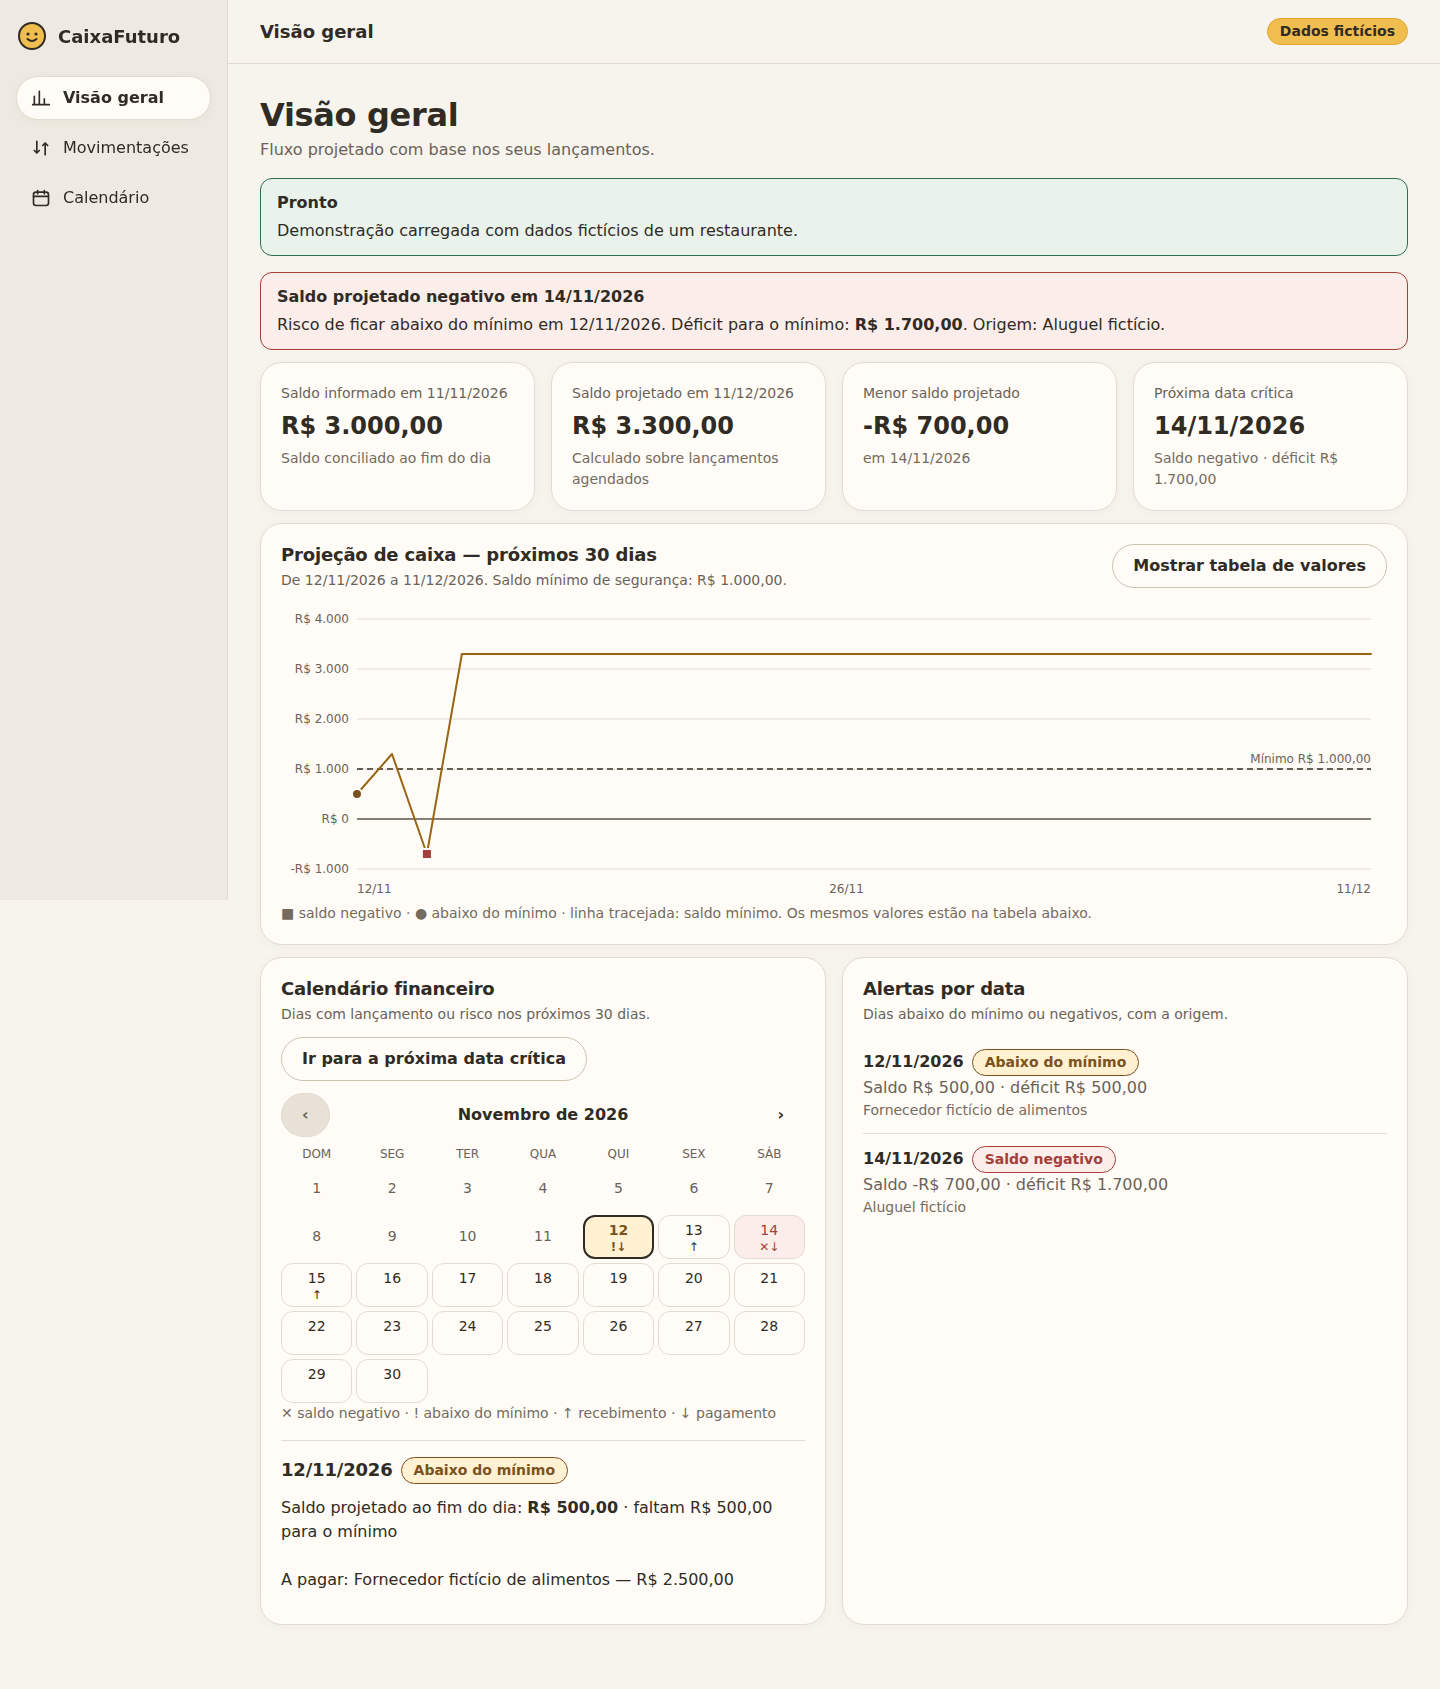
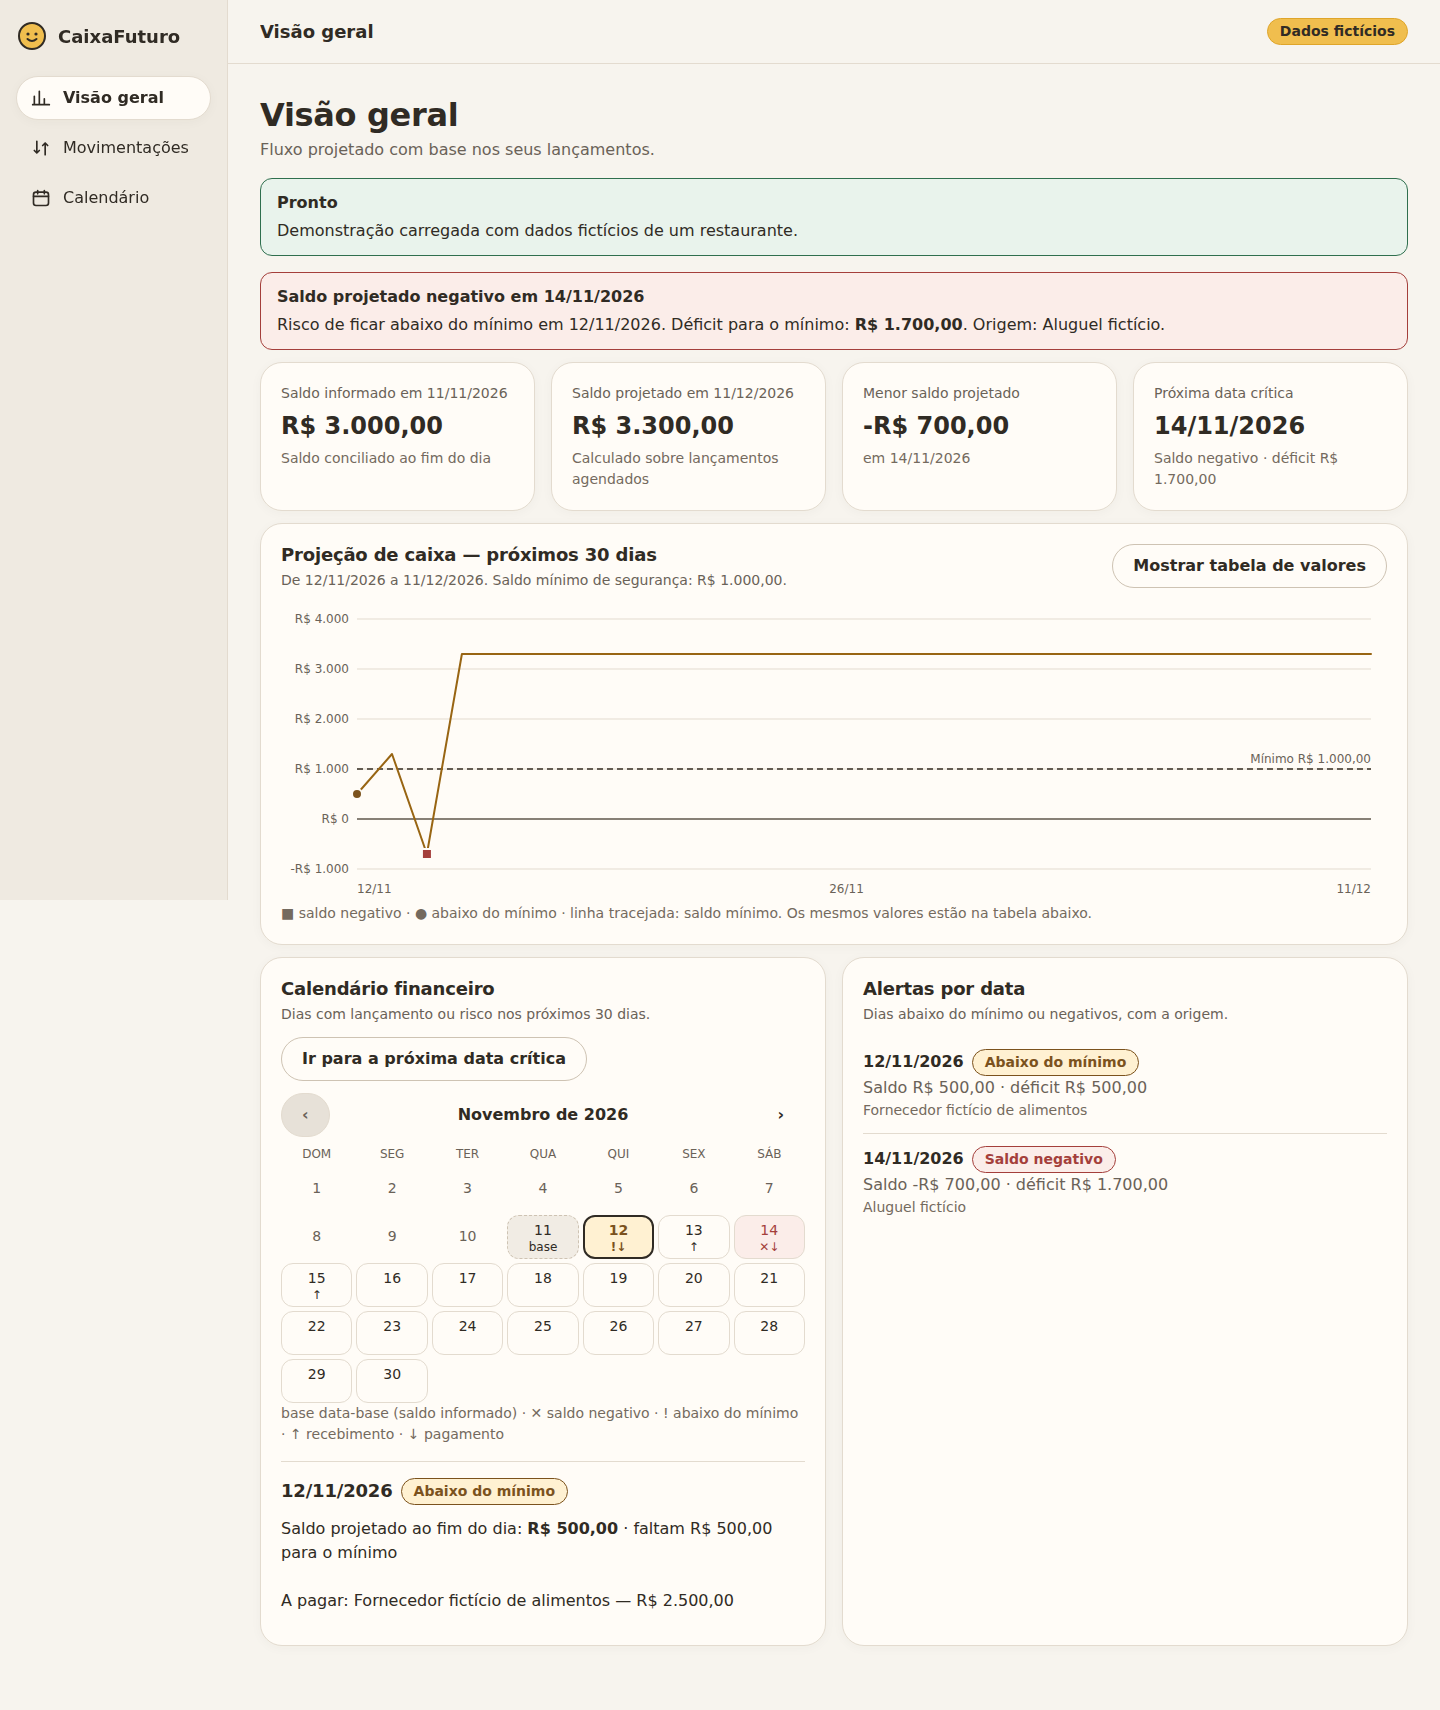
fix(calendario): data-base destacada e clicável com o saldo informado
- O dia da data-base aparece como "base" e mostra "Saldo informado ao fim do dia" (não projetado)
- Dias anteriores continuam inativos; a projeção segue começando no dia seguinte (contrato inalterado)
- Mês da data-base permanece navegável mesmo se a projeção começar no mês seguinte
- Testes: 2 de componente e 1 E2E

diff --git a/src/components/__tests__/dashboard.test.tsx b/src/components/__tests__/dashboard.test.tsx
@@ -122,7 +122,7 @@ describe('RiskCalendar', () => {
   it('lista os 30 dias do horizonte em dois meses e navega entre eles', async () => {
     const { result, byId } = demo();
     const onSelect = vi.fn();
-    render(<RiskCalendar points={result.points} entriesById={byId} selectedDate="2026-11-14" onSelectDate={onSelect} firstRiskDate="2026-11-12" />);
+    render(<RiskCalendar baseDate="2026-11-11" openingCents={300000n} points={result.points} entriesById={byId} selectedDate="2026-11-14" onSelectDate={onSelect} firstRiskDate="2026-11-12" />);
     expect(screen.getByText(/novembro de 2026/i)).toBeInTheDocument();
     expect(screen.getByRole('button', { name: /mês anterior/i })).toBeDisabled();
     expect(screen.getAllByRole('button', { name: /^\d{2}\/\d{2}\/2026, saldo/ })).toHaveLength(19); // 12..30/11
@@ -134,7 +134,7 @@ describe('RiskCalendar', () => {
 
   it('dia crítico tem rótulo textual e detalhe com a origem do cálculo', () => {
     const { result, byId } = demo();
-    render(<RiskCalendar points={result.points} entriesById={byId} selectedDate="2026-11-14" onSelectDate={() => {}} firstRiskDate="2026-11-12" />);
+    render(<RiskCalendar baseDate="2026-11-11" openingCents={300000n} points={result.points} entriesById={byId} selectedDate="2026-11-14" onSelectDate={() => {}} firstRiskDate="2026-11-12" />);
     const day = screen.getByRole('button', { name: /14\/11\/2026, saldo -R\$ 700,00, Saldo negativo, pagamento/ });
     expect(day).toHaveAttribute('aria-pressed', 'true');
     expect(screen.getByText(/faltam R\$ 1\.700,00 para o mínimo/)).toBeInTheDocument();
@@ -144,7 +144,7 @@ describe('RiskCalendar', () => {
   it('selecionar data e "Ir para a próxima data crítica" notificam a data do motor', async () => {
     const { result, byId } = demo();
     const onSelect = vi.fn();
-    render(<RiskCalendar points={result.points} entriesById={byId} selectedDate="2026-11-20" onSelectDate={onSelect} firstRiskDate="2026-11-12" />);
+    render(<RiskCalendar baseDate="2026-11-11" openingCents={300000n} points={result.points} entriesById={byId} selectedDate="2026-11-20" onSelectDate={onSelect} firstRiskDate="2026-11-12" />);
     await userEvent.click(screen.getByRole('button', { name: /13\/11\/2026, saldo R\$ 1\.300,00/ }));
     expect(onSelect).toHaveBeenLastCalledWith('2026-11-13');
     await userEvent.click(screen.getByRole('button', { name: /ir para a próxima data crítica/i }));
@@ -154,9 +154,37 @@ describe('RiskCalendar', () => {
 
   it('sem risco não oferece o atalho; sem pontos mostra estado vazio', () => {
     const { result, byId } = demo();
-    const { rerender } = render(<RiskCalendar points={result.points} entriesById={byId} selectedDate={null} onSelectDate={() => {}} firstRiskDate={null} />);
+    const { rerender } = render(<RiskCalendar baseDate="2026-11-11" openingCents={300000n} points={result.points} entriesById={byId} selectedDate={null} onSelectDate={() => {}} firstRiskDate={null} />);
     expect(screen.queryByRole('button', { name: /próxima data crítica/i })).toBeNull();
-    rerender(<RiskCalendar points={[]} entriesById={byId} selectedDate={null} onSelectDate={() => {}} firstRiskDate={null} />);
+    rerender(<RiskCalendar baseDate="2026-11-11" openingCents={300000n} points={[]} entriesById={byId} selectedDate={null} onSelectDate={() => {}} firstRiskDate={null} />);
     expect(screen.getByText(/sem dados para exibir/i)).toBeInTheDocument();
+  });
+
+  it('a data-base é destacada e clicável e mostra o saldo INFORMADO (não projetado)', async () => {
+    const { result, byId } = demo();
+    const onSelect = vi.fn();
+    const { rerender } = render(
+      <RiskCalendar baseDate="2026-11-11" openingCents={300000n} points={result.points} entriesById={byId} selectedDate="2026-11-14" onSelectDate={onSelect} firstRiskDate="2026-11-12" />,
+    );
+    const base = screen.getByRole('button', { name: /^11\/11\/2026, data-base, saldo informado R\$ 3\.000,00/ });
+    expect(base).toBeEnabled();
+    expect(base).toHaveTextContent('base');
+    // dias anteriores à data-base continuam inativos
+    expect(screen.queryByRole('button', { name: /^10\/11\/2026/ })).toBeNull();
+    await userEvent.click(base);
+    expect(onSelect).toHaveBeenLastCalledWith('2026-11-11');
+    rerender(<RiskCalendar baseDate="2026-11-11" openingCents={300000n} points={result.points} entriesById={byId} selectedDate="2026-11-11" onSelectDate={onSelect} firstRiskDate="2026-11-12" />);
+    expect(screen.getByText('Data-base')).toBeInTheDocument();
+    expect(screen.getByText(/Saldo informado ao fim do dia:/)).toHaveTextContent('R$ 3.000,00');
+    expect(screen.getByText(/conferido por você, não projetado/)).toBeInTheDocument();
+    expect(screen.getByText(/projeção começa no dia seguinte/i)).toBeInTheDocument();
+    expect(screen.queryByText(/faltam R\$/)).toBeNull();
+  });
+
+  it('data-base no último dia do mês: o mês da data-base continua navegável', () => {
+    const settings = { baseDate: '2026-11-30', openingBalanceCents: '100000', minimumBalanceCents: '0' };
+    const result = project(settings, []);
+    render(<RiskCalendar baseDate="2026-11-30" openingCents={100000n} points={result.points} entriesById={new Map()} selectedDate={null} onSelectDate={() => {}} firstRiskDate={null} />);
+    expect(screen.getByRole('button', { name: /^30\/11\/2026, data-base/ })).toBeInTheDocument();
   });
 });

diff --git a/src/components/RiskCalendar.tsx b/src/components/RiskCalendar.tsx
@@ -6,6 +6,9 @@ import { riskLabel, riskTone } from './riskText';
 import { CfBadge, CfButton, CfCard } from './ui/UiPrimitives';
 
 export interface RiskCalendarProps {
+  /** Data-base (saldo informado ao fim do dia) e esse saldo, vindos das configurações/motor. */
+  baseDate: ISODate;
+  openingCents: bigint;
   points: readonly DailyPoint[];
   entriesById: ReadonlyMap<string, CashEntry>;
   selectedDate: ISODate | null;
@@ -19,9 +22,9 @@ const pad = (n: number) => String(n).padStart(2, '0');
 const monthKey = (iso: ISODate) => iso.slice(0, 7);
 
 /** Calendário mensal que apenas apresenta os `DailyPoint[]` do motor (sem cálculo de saldo próprio). */
-export function RiskCalendar({ points, entriesById, selectedDate, onSelectDate, firstRiskDate }: RiskCalendarProps) {
+export function RiskCalendar({ baseDate, openingCents, points, entriesById, selectedDate, onSelectDate, firstRiskDate }: RiskCalendarProps) {
   const byDate = useMemo(() => new Map(points.map((p) => [p.date, p] as const)), [points]);
-  const firstMonth = points[0] ? monthKey(points[0].date) : null;
+  const firstMonth = points[0] ? monthKey(baseDate) : null;
   const lastMonth = points.length > 0 ? monthKey((points[points.length - 1] as DailyPoint).date) : null;
   const [month, setMonth] = useState<string | null>(selectedDate ? monthKey(selectedDate) : firstMonth);
 
@@ -48,6 +51,7 @@ export function RiskCalendar({ points, entriesById, selectedDate, onSelectDate, 
   };
 
   const selected = selectedDate ? (byDate.get(selectedDate) ?? null) : null;
+  const baseSelected = selectedDate === baseDate;
 
   return (
     <CfCard
@@ -85,6 +89,23 @@ export function RiskCalendar({ points, entriesById, selectedDate, onSelectDate, 
           const day = i + 1;
           const iso = `${month}-${pad(day)}`;
           const point = byDate.get(iso);
+          if (iso === baseDate) {
+            return (
+              <button
+                key={iso}
+                type="button"
+                className="cf-cal__day cf-cal__day--base"
+                aria-pressed={baseSelected}
+                aria-label={`${formatBR(iso)}, data-base, saldo informado ${formatBRL(openingCents)}`}
+                onClick={() => onSelectDate(iso)}
+              >
+                <span>{day}</span>
+                <span className="cf-cal__marks" aria-hidden="true">
+                  base
+                </span>
+              </button>
+            );
+          }
           if (!point) {
             return (
               <span key={iso} className="cf-cal__day cf-cal__day--off" aria-hidden="true">
@@ -112,9 +133,22 @@ export function RiskCalendar({ points, entriesById, selectedDate, onSelectDate, 
           );
         })}
       </div>
-      <p className="cf-subtle">✕ saldo negativo · ! abaixo do mínimo · ↑ recebimento · ↓ pagamento</p>
+      <p className="cf-subtle">base data-base (saldo informado) · ✕ saldo negativo · ! abaixo do mínimo · ↑ recebimento · ↓ pagamento</p>
 
-      {selected && (
+      {baseSelected && (
+        <div className="cf-stack cf-cal__detail" aria-live="polite">
+          <div className="cf-row">
+            <h3 className="cf-card__title">{formatBR(baseDate)}</h3>
+            <CfBadge tone="neutral">Data-base</CfBadge>
+          </div>
+          <p>
+            Saldo informado ao fim do dia: <strong>{formatBRL(openingCents)}</strong> (conferido por você, não projetado)
+          </p>
+          <p className="cf-muted">A projeção começa no dia seguinte, com os lançamentos agendados a partir dele.</p>
+        </div>
+      )}
+
+      {!baseSelected && selected && (
         <div className="cf-stack cf-cal__detail" aria-live="polite">
           <div className="cf-row">
             <h3 className="cf-card__title">{formatBR(selected.date)}</h3>

diff --git a/tests/e2e/cash-flow.spec.ts b/tests/e2e/cash-flow.spec.ts
@@ -262,6 +262,19 @@ test.describe('navegação, teclado e acessibilidade básica', () => {
     await expect(items).toHaveCount(3);
   });
 
+  test('calendário: a data-base é clicável e mostra o saldo informado; dias anteriores ficam inativos', async ({ page }) => {
+    await loadDemo(page);
+    await nav(page, 'Calendário');
+    const base = page.getByRole('button', { name: /^11\/11\/2026, data-base, saldo informado R\$ 3\.000,00/ });
+    await expect(base).toBeVisible();
+    await base.click();
+    await expect(base).toHaveAttribute('aria-pressed', 'true');
+    await expect(page.getByText(/Saldo informado ao fim do dia:/)).toContainText('R$ 3.000,00');
+    await expect(page.getByText(/conferido por você, não projetado/)).toBeVisible();
+    await expect(page.getByRole('button', { name: /^10\/11\/2026/ })).toHaveCount(0);
+    await page.screenshot({ path: `${SHOTS}/e2e-calendario-data-base.png` });
+  });
+
   test('foco visível, nomes acessíveis e alvos de toque >= 44px', async ({ page }, info) => {
     await loadDemo(page);
     await expect(page.locator('html')).toHaveAttribute('lang', 'pt-BR');

diff --git a/src/components/CashDashboard.tsx b/src/components/CashDashboard.tsx
@@ -125,7 +125,7 @@ export function CashDashboard({ settings, result, entriesById, selectedDate, onS
       </CfCard>
 
       <div className="cf-grid cf-grid--two">
-        <RiskCalendar points={points} entriesById={entriesById} selectedDate={selectedDate} onSelectDate={onSelectDate} firstRiskDate={summary.firstRisk?.date ?? null} />
+        <RiskCalendar baseDate={settings.baseDate} openingCents={summary.openingCents} points={points} entriesById={entriesById} selectedDate={selectedDate} onSelectDate={onSelectDate} firstRiskDate={summary.firstRisk?.date ?? null} />
         <CfCard title={riskPoints.length > 0 ? 'Alertas por data' : 'Próximos lançamentos'} description={riskPoints.length > 0 ? 'Dias abaixo do mínimo ou negativos, com a origem.' : 'Os próximos lançamentos agendados.'}>
           {(riskPoints.length > 0 ? riskPoints.slice(0, 8) : upcoming).length === 0 ? (
             <p className="cf-muted">Nenhum lançamento agendado nos próximos 30 dias.</p>

diff --git a/src/app/styles.css b/src/app/styles.css
@@ -279,6 +279,7 @@ button, input, select, textarea { font: inherit; color: inherit; }
 .cf-cal__day--off { background: transparent; border-color: transparent; color: var(--cf-disabled-text); cursor: default; }
 .cf-cal__day:hover:not(.cf-cal__day--off) { background: var(--cf-surface-hover); }
 .cf-cal__day[aria-pressed='true'] { border: 2px solid var(--cf-text); font-weight: 700; }
+.cf-cal__day--base { border: 1px dashed var(--cf-border-strong); background: var(--cf-surface-secondary); }
 .cf-cal__day--below_minimum { background: var(--cf-warning-surface); color: var(--cf-warning); }
 .cf-cal__day--negative { background: var(--cf-negative-surface); color: var(--cf-negative); }
 .cf-cal__marks { font-size: var(--cf-fs-caption); line-height: 1; min-height: 12px; }

diff --git a/src/app/App.tsx b/src/app/App.tsx
@@ -407,5 +407,5 @@ export function App({ repository }: AppProps) {
 }
 
 function CalendarOnly({ result, entriesById, selectedDate, onSelectDate }: { result: ProjectionResult; entriesById: ReadonlyMap<string, CashEntry>; selectedDate: ISODate | null; onSelectDate: (d: ISODate) => void }) {
-  return <RiskCalendar points={result.points} entriesById={entriesById} selectedDate={selectedDate} onSelectDate={onSelectDate} firstRiskDate={result.summary.firstRisk?.date ?? null} />;
+  return <RiskCalendar baseDate={result.summary.baseDate} openingCents={result.summary.openingCents} points={result.points} entriesById={entriesById} selectedDate={selectedDate} onSelectDate={onSelectDate} firstRiskDate={result.summary.firstRisk?.date ?? null} />;
 }
